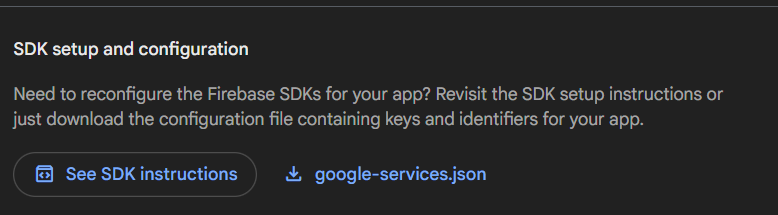
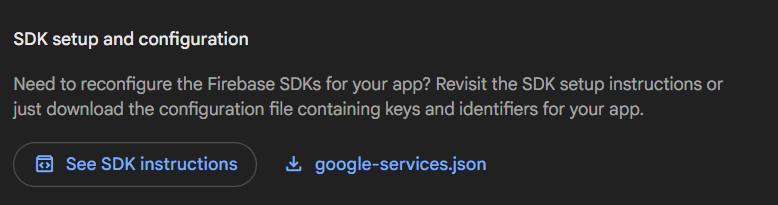
Advance Guide

diff --git a/README.md b/README.md
@@ -1,6 +1,6 @@
 # 3-Star Consignment
 
-UNTUK TERHUBUNG KEFIREBASE 
+## Untuk Terhubung Ke Firebase 
 1. download dulu file google-services.json dari firebase console
 [disini](https://console.firebase.google.com/u/0/project/test-4d7e0/settings/general/android:com.example.star_consignment?hl=id&fb_gclid=Cj0KCQiA9OnJBhD-ARIsAPV51xP0lyBAWYVKRmNyJpiQmdihTNngn4LVKG_pdUiIFq4Kj3o1XW2CPJIaApEeEALw_wcB)
 
@@ -8,17 +8,20 @@ Di bagian general -> Scroll Kebawah -> Download google-services.json
 
 ![Screenshot Download Google Service JSON File](assets/image/Screenshot%20Download%20Google%20Service%20JSON%20File.png)
 
-2. letakkan di folder android/app/
+2. letakkan di folder `android/app/`
 
-## Getting Started
+![Screenshot Location Google Service JSON File](assets/image/Screenshot%20Guide%20Google%20Service%20Location.png)
 
-This project is a starting point for a Flutter application.
+## Lanjutan
 
-A few resources to get you started if this is your first Flutter project:
+Proyek ini merupakan titik awal untuk aplikasi Flutter dengan integrasi Firebase.
 
-- [Lab: Write your first Flutter app](https://docs.flutter.dev/get-started/codelab)
-- [Cookbook: Useful Flutter samples](https://docs.flutter.dev/cookbook)
+Beberapa sumber yang berguna:
 
-For help getting started with Flutter development, view the
-[online documentation](https://docs.flutter.dev/), which offers tutorials,
-samples, guidance on mobile development, and a full API reference.
+- [Dokumentasi Firebase untuk Flutter](https://firebase.google.com/docs/flutter/setup)
+- [Lab: Buat aplikasi Flutter pertamamu](https://docs.flutter.dev/get-started/codelab)
+- [Cookbook: Contoh Flutter yang berguna](https://docs.flutter.dev/cookbook)
+
+Untuk bantuan memulai pengembangan Flutter, lihat
+[dokumentasi online Flutter](https://docs.flutter.dev/), yang menyediakan tutorial,
+contoh, panduan pengembangan mobile, dan referensi API lengkap.
